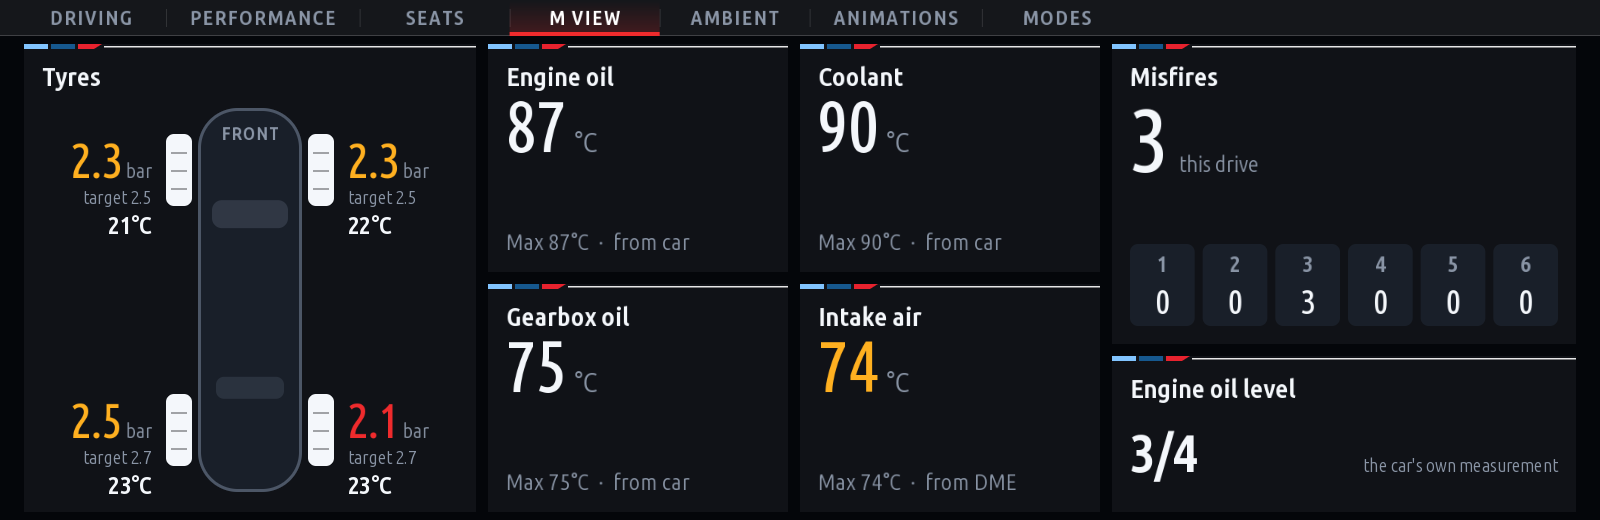
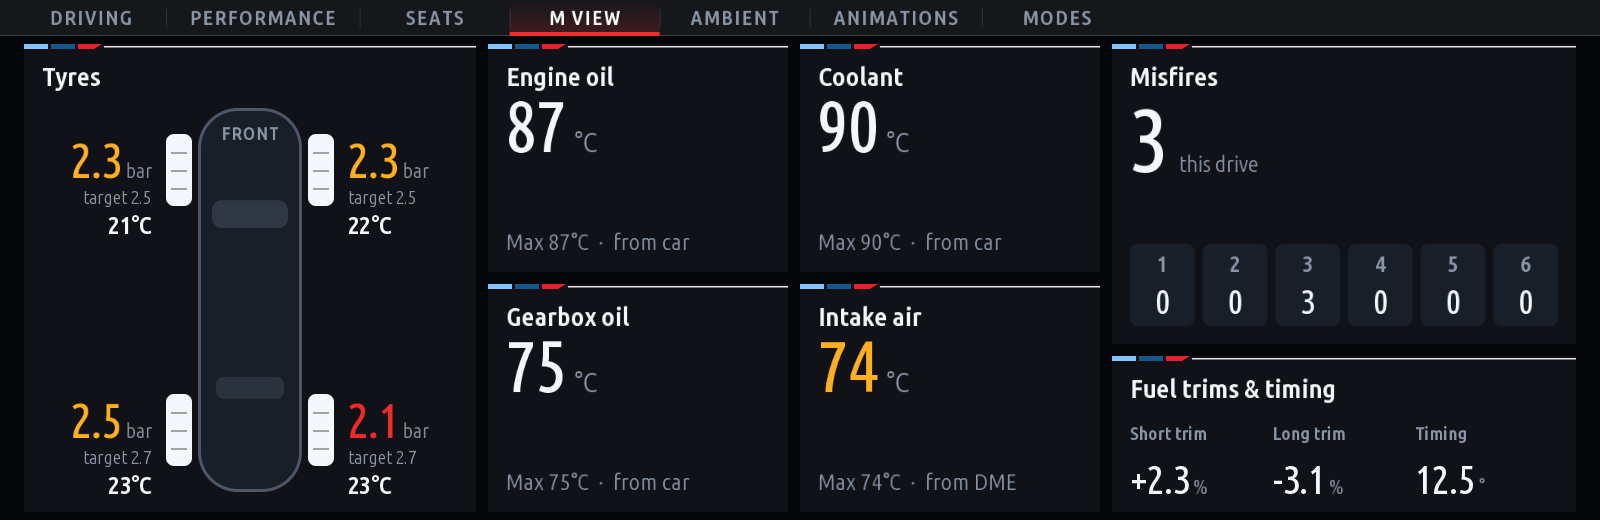
Combo 2.4.2: M View's fuel trims and timing in place of the oil level
The B58 measures its oil level its own way, so the Vehicle2 dipstick signal is gone. In its place:
short and long term fuel trim (bank 1) and ignition advance from the engine unit, OBD 01 PIDs
06 / 07 / 0E (UDS 22 F4xx as the fallback), read every 5 s while the tab shows. A trim 10 % from 0
is yellow, 20 % red.

diff --git a/apps/combo/mview.js b/apps/combo/mview.js
@@ -5,7 +5,7 @@
  *   Engine oil, coolant    the car's own signals (signals.js); while it sends none, the engine unit (OBD 5C / 05)
  *   Gearbox oil            the car's BasicDataSet, else the gearbox unit (EGS 0x18, 22 6000 as on a ZF 8HP)
  *   Intake air             the engine unit (OBD 0F)
- *   Oil level              the car's own measurement (Vehicle2.statusOilDipstick2)
+ *   Fuel trims, timing     the engine unit (OBD 06 / 07 short and long term trim bank 1, 0E ignition advance)
  *   Misfires               per cylinder this driving cycle, from the engine unit's on-board monitors (OBD service 06,
  *                          mid A2 = cylinder 1 ...; 22 F6xx when it refuses service 06); Reset counts from now on,
  *                          nothing is cleared in the car
@@ -23,12 +23,11 @@ const { withAlpha } = require('./kit/canvas');
 
 const TEMP_MS = 5000, MISFIRE_MS = 10000, CAR_FRESH = 10000, KEEP = 30000, HIST_MS = 2000, HIST_N = 150;
 const YIELD_MS = 600, YIELD_STEP = 50, CALL_MS = 1500;
-const LEVELS = { MOTOROELSTAND_UNTER_MINIMUM: 'Below min', MOTOROELSTAND_AM_MINIMUM: 'At min', MOTOROELSTAND_1_4: '1/4',
-    MOTOROELSTAND_2_4: '2/4', MOTOROELSTAND_3_4: '3/4', MOTOROELSTAND_4_4: '4/4', MOTOROELSTAND_5_4: 'Overfilled',
-    MOTOROELSTAND_UEBERFUELLT: 'Overfilled', MOTOROELSTAND_OK: 'OK', SERVICEFUNKTION_AKTIV: 'Measuring' };
-const LEVEL_NO = { 0: 'MOTOROELSTAND_UNTER_MINIMUM', 1: 'MOTOROELSTAND_AM_MINIMUM', 2: 'MOTOROELSTAND_1_4', 3: 'MOTOROELSTAND_2_4',
-    4: 'MOTOROELSTAND_3_4', 5: 'MOTOROELSTAND_4_4', 6: 'MOTOROELSTAND_5_4', 7: 'MOTOROELSTAND_UEBERFUELLT', 13: 'MOTOROELSTAND_OK', 14: 'SERVICEFUNKTION_AKTIV' };
 const TEMPS = ['oil', 'coolant', 'gearbox', 'iat'];
+// the Fuel trims & timing card (engine unit, OBD 01 06 / 07 / 0E): trims in %, the advance in degrees
+const FUEL = ['stft', 'ltft', 'timing'];
+// a trim the engine unit has to hold this far from 0 % means air or fuel is off (a leak, an injector, a sensor)
+const TRIM_WARN = 10, TRIM_CRIT = 20;
 const GO = '#2fd27a';
 // a healthy engine counts a few each drive (the engine unit flags misfires at ~1-2 % of revolutions): the total in
 // yellow from MIS_WARN, red from MIS_CRIT, a cylinder from MIS_CYL_WARN (M Vitals' thresholds)
@@ -36,19 +35,13 @@ const MIS_WARN = 100, MIS_CRIT = 500, MIS_CYL_WARN = 50;
 const isNum = (x) => typeof x === 'number' && isFinite(x);
 const hexOf = (x) => parseInt(String(x), 16);
 
-/** The car's oil level enum (by name or number) as shown, or null. */
-function oilLevel(x) {
-    const name = typeof x === 'number' ? LEVEL_NO[x] : x;
-    return LEVELS[name] || null;
-}
-
 class MView {
     constructor(o) {
         Object.assign(this, { reader: o.reader, values: o.values, settings: o.settings, log: o.log, link: o.link || null });
         this.now = o.now || Date.now;
         this.yieldTo = o.yieldTo || null;
         const cfg = o.cfg || {}, quick = (l) => (l || []).map((c) => Object.assign({ timeoutMs: CALL_MS }, c));
-        this.c = { oil: quick(cfg.oil), coolant: quick(cfg.coolant), iat: quick(cfg.iat), gearbox: quick(cfg.egs) };
+        this.c = { oil: quick(cfg.oil), coolant: quick(cfg.coolant), iat: quick(cfg.iat), gearbox: quick(cfg.egs), stft: quick(cfg.stft), ltft: quick(cfg.ltft), timing: quick(cfg.timing) };
         const m = cfg.misfire || {};
         this.mis = { ecu: m.ecu == null ? 0x12 : m.ecu, tid: hexOf(m.tid || '0C'), avgTid: hexOf(m.avgTid || '0B'), cylinders: m.cylinders || 6 };
         // the monitor ids to ask (cylinder 1 = A2), the form the unit answers (service 06, or 22 F6xx: did), none left
@@ -66,6 +59,8 @@ class MView {
         if (isNum(this.read[k]) && now - (this.readT[k] || 0) < KEEP) return { v: this.read[k], from: k === 'gearbox' ? 'EGS' : 'DME' };
         return null;
     }
+    /** A fuel trim or the timing while fresh, else null. */
+    fuel(k) { return isNum(this.read[k]) && this.now() - (this.readT[k] || 0) < KEEP ? this.read[k] : null; }
     carFresh(k) { const L = this.values.live; return isNum(L[k]) && this.now() - (L[k + 'T'] || 0) < CAR_FRESH; }
     /** The counts shown: since Reset (until the engine unit starts a new driving cycle: a count under its base). */
     shown() {
@@ -87,12 +82,13 @@ class MView {
         this.busy = true;
         this.run(due).catch((e) => this.log.warn('mview ' + due + ': ' + e)).then(() => { this.busy = false; });
     }
-    /** The next value to read: a temperature the car doesn't send, or the next cylinder's misfires. */
+    /** The next value to read: a temperature the car doesn't send, a fuel trim / the timing, or the next cylinder's misfires. */
     due(now) {
         for (const k of TEMPS) {
             if (this.carFresh(k) || !this.live(this.c[k]).length) continue;
             if (now - (this.last[k] || 0) >= TEMP_MS) return k;
         }
+        for (const k of FUEL) if (this.live(this.c[k]).length && now - (this.last[k] || 0) >= TEMP_MS) return k;
         if (this.misGone === null && now - (this.last.misfire || 0) >= MISFIRE_MS / Math.max(1, this.mis.cylinders)) return 'misfire';
         return null;
     }
@@ -166,7 +162,7 @@ class MView {
     /* ---------- the tab ---------- */
     /*
      * Left to right: the tyres (M Vitals' Chassis card, narrower), the four temperatures in two columns, then the
-     * misfires (M Vitals' Fuel & ignition card: the total, a cell per cylinder) over the oil level.
+     * misfires (M Vitals' Fuel & ignition card: the total, a cell per cylinder) over the fuel trims and the ignition timing.
      */
     draw(cv, t, o) {
         const demo = !!(o && o.demo), U = require('./draw').units(this.settings || { get: () => null });
@@ -188,7 +184,7 @@ class MView {
         // (intake air: 74 deg C parked in traffic is heat soak, not a fault - warn from 65, red from 80)
         tile('iat', 'Intake air', 800, 284, hot(65, 80));
         this.drawMisfires(cv, t, 1112, 44, 464, 300, D);
-        this.drawOilLevel(cv, t, 1112, 356, 464, 156, D);
+        this.drawFuel(cv, t, 1112, 356, 464, 156, D);
     }
     /** The car's tyres while fresh (signals.js L.tyres), else null. */
     tyres() { const L = this.values.live; return L.tyresT && this.now() - L.tyresT < 5 * 60000 ? L.tyres : null; }
@@ -247,13 +243,19 @@ class MView {
             cv.text(isNum(c) ? String(c) : '-', cx + cw / 2, cy + ch - 12, 34, !isNum(c) ? t.dim : hit ? t.warn : t.text, { align: 'center', font: 'num' });
         }
     }
-    drawOilLevel(cv, t, x, y, w, h, D) {
-        G.panel(cv, t, x, y, w, h, 'Engine oil level');
-        const L = this.values.live;
-        const lvl = D ? '4/4' : (L.oilLevelT && this.now() - L.oilLevelT < 10 * 60000 ? oilLevel(L.oilLevel) : null);
-        const bad = lvl === 'Below min' || lvl === 'At min' || lvl === 'Overfilled';
-        cv.text(lvl || '--', x + 18, y + 116, 52, bad ? t.warn : lvl ? t.text : t.dim, { font: 'bold' });
-        cv.text(lvl ? "the car's own measurement" : 'not sent by the car yet', x + w - 18, y + 116, 18, t.dim, { align: 'right' });
+    /** Short and long term fuel trim (%), ignition advance (degrees), side by side. */
+    drawFuel(cv, t, x, y, w, h, D) {
+        G.panel(cv, t, x, y, w, h, 'Fuel trims & timing');
+        const cw = (w - 36) / 3;
+        [['stft', 'Short trim', '%'], ['ltft', 'Long trim', '%'], ['timing', 'Timing', '°']].forEach((c, i) => {
+            const k = c[0], v = D ? D[k] : this.fuel(k), cx = x + 18 + i * cw, trim = k !== 'timing';
+            const a = isNum(v) ? Math.abs(v) : 0, col = !isNum(v) ? t.dim : trim && a >= TRIM_CRIT ? t.crit : trim && a >= TRIM_WARN ? t.warn : t.text;
+            cv.text(c[1], cx, y + 84, 18, t.dim, { font: 'bold' });
+            const txt = !isNum(v) ? '--' : (trim && v > 0 ? '+' : '') + G.fmt(v, 1);
+            cv.text(txt, cx, y + 138, 40, col, { font: 'num' });
+            if (isNum(v)) cv.text(c[2], cx + cv.textWidth(txt, 40, { font: 'num' }) + 4, y + 138, 20, t.dim);
+        });
+        if (!D && !FUEL.some((k) => isNum(this.fuel(k)))) cv.text(FUEL.every((k) => !this.live(this.c[k]).length) ? 'Not given by this car' : this.why('stft'), x + w - 18, y + 40, 16, t.dim, { align: 'right' });
     }
 }
 
@@ -270,8 +272,8 @@ function refused(raw) {
 /** The demo's values (Combo's demo setting): a warm engine, no misfires. */
 function demoValues(now) {
     const s = Math.sin(now / 9000);
-    return { oil: 102 + 4 * s, coolant: 92 + 2 * s, gearbox: 81 + 3 * s, iat: 34 + 3 * s, mis: [0, 0, 0, 0, 0, 0],
+    return { oil: 102 + 4 * s, coolant: 92 + 2 * s, gearbox: 81 + 3 * s, iat: 34 + 3 * s, stft: 1.6 * s, ltft: -2.3, timing: 14 + 4 * s, mis: [0, 0, 0, 0, 0, 0],
         tyres: { FL: { p: 2.3, t: 31, pt: 2.5 }, FR: { p: 2.3, t: 31, pt: 2.5 }, RL: { p: 2.5, t: 34, pt: 2.7 }, RR: { p: 2.6, t: 34, pt: 2.7 } } };
 }
 
-module.exports = { MView, oilLevel, refused };
+module.exports = { MView, refused };

diff --git a/kit/tools/test_combo.js b/kit/tools/test_combo.js
@@ -736,7 +736,7 @@ checks.push(
         const t2 = await b.tab(2);
         assert(t2.some((x) => /^Reading only for now/.test(x)) && !t2.includes('Engine speed'), 'Seats: ' + t2.join(' | '));
         const tm = await b.tab(3);
-        assert(tm.includes('Engine oil') && tm.includes('Gearbox oil') && tm.includes('Misfires') && tm.includes('Tyres') && tm.includes('Engine oil level') && !tm.some((x) => /NaN|undefined/.test(x)), 'M View: ' + tm.join(' | '));
+        assert(tm.includes('Engine oil') && tm.includes('Gearbox oil') && tm.includes('Misfires') && tm.includes('Tyres') && tm.includes('Fuel trims & timing') && !tm.includes('Engine oil level') && !tm.some((x) => /NaN|undefined/.test(x)), 'M View: ' + tm.join(' | '));
         const t3 = await b.tab(5);
         assert(t3.includes('AMBIENT TAB 1') && fakeAmb.calls.indexOf('select 1') >= 0, 'Animations: ' + t3.join(' | '));
         b.tap(300, 300);
@@ -820,16 +820,14 @@ checks.push(
             });
         });
     }],
-    ['2.4 #1 M View: oil and coolant from the car\'s own signals, the oil level from its measurement', async () => {
+    ['2.4 #1 M View: oil and coolant from the car\'s own signals, no oil level', async () => {
         const { v, w } = signalRig();
         w.CDS.statusEngineTemperature({ temperatureEngineDrive: 48 + 91, temperatureEngineOilDrive: 48 + 104 });
         assert.strictEqual(v.live.coolant, 91); assert.strictEqual(v.live.oil, 104); assert(v.live.oilT > 0);
         w.VehicleInformation.DataPowerTrain2({ temperatureEngineDrive: 48 + 93, temperatureEngineOilDrive: 255 });
         assert.strictEqual(v.live.coolant, 93, 'DataPowerTrain2 carries them too'); assert.strictEqual(v.live.oil, 104, '255 = no value');
-        w.Vehicle2.statusOilDipstick2({ fluidLevelEngineOilRelative: 'MOTOROELSTAND_3_4' });
-        const { oilLevel } = appModule('mview');
-        assert.strictEqual(oilLevel(v.live.oilLevel), '3/4'); assert.strictEqual(oilLevel(4), '3/4'); assert.strictEqual(oilLevel('SIGNAL_UNGUELTIG'), null);
-        assert(SPEC.signals['de.bmw.infotainment.vehicle.CDS'].statusEngineTemperature && SPEC.signals['de.bmw.infotainment.vehicle.Vehicle2'].statusOilDipstick2);
+        assert(SPEC.signals['de.bmw.infotainment.vehicle.CDS'].statusEngineTemperature);
+        assert(!SPEC.signals['de.bmw.infotainment.vehicle.Vehicle2'].statusOilDipstick2, 'no oil level (2.4.2: a B58 measures it its own way)');
     }],
     ['2.4 #2 M View reads: the car\'s values not asked, the gearbox from the EGS, refusals not asked again, misfires per cylinder', async () => {
         const { MView } = appModule('mview'), { DidReader } = require(path.join(KIT, 'dids'));
@@ -967,5 +965,23 @@ checks.push(
         assert.strictEqual(s.state.available, false); assert(/not available/.test(s.summary()));
         ok = true; s.again(); s.poll(); while (s.busy) await new Promise((r) => setImmediate(r));
         assert.strictEqual(s.state.available, true); assert(/1 motors/.test(s.summary()));
+    }],
+    ['2.4.2 M View: fuel trims and timing from the engine unit (OBD 01 06 / 07 / 0E), a trim far from 0 % in the warning colour', async () => {
+        const { MView } = appModule('mview'), { DidReader } = require(path.join(KIT, 'dids'));
+        const asked = [];
+        const fake = { available: true, async physical(ecu, sid, data) {
+            asked.push(sid + ':' + data[0]);
+            if (sid !== 1) return [0x7F, sid, 0x11];
+            const by = { 6: 130, 7: 141, 0x0E: 156, 0x5C: 140, 0x05: 130, 0x0F: 70 }[data[0]];
+            return by == null ? [0x7F, 1, 0x12] : [0x41, data[0], by];
+        } };
+        let clock = 1e6;
+        const m = new MView({ reader: new DidReader(fake), values: { live: {}, now: () => clock }, cfg: SPEC.config.mview, settings: settingsOf(), log: quiet, link: fake, now: () => clock });
+        for (let i = 0; i < 60; i++) { m.tick(); while (m.busy) await new Promise((r) => setImmediate(r)); clock += 400; }
+        assert(Math.abs(m.fuel('stft') - 1.5625) < 1e-6, 'short trim (130 - 128) / 1.28: ' + m.fuel('stft'));
+        assert(Math.abs(m.fuel('ltft') - 10.15625) < 1e-6, 'long trim');
+        assert.strictEqual(m.fuel('timing'), 14, '156 / 2 - 64');
+        const tx = await textsOf(() => { const cv = new Canvas(1600, 520); cv.own = true; m.draw(cv, themes.theme('m_tricolour')); });
+        assert(tx.includes('Fuel trims & timing') && tx.includes('+1.6') && tx.includes('+10.2') && tx.includes('14.0') && !tx.some((x) => /NaN|undefined|oil level/i.test(x)), tx.join(' | '));
     }],
 );

diff --git a/apps/combo/main.js b/apps/combo/main.js
@@ -8,7 +8,7 @@
  *   Performance  Virtual Dyno on the left half, Drag Timer on the right (perf.js)
  *   Seats        the driver seat's position from the car (seats.js; reading only for now: memory 1-3 and easy entry
  *                next, once a car's log shows the position reply)
- *   M View       engine oil, coolant, gearbox oil and intake air temperatures, the oil level, misfires per cylinder
+ *   M View       engine oil, coolant, gearbox oil and intake air temperatures, fuel trims and timing, misfires per cylinder
  *                (mview.js; read only while the tab shows)
  *   Ambient, Animations, Modes
  *                Ambient config's tabs (its Colour, Animations and Driving modes; not Favourites, not the Strobe), the
@@ -106,7 +106,7 @@ mgu.run({
         const perf = new Perf({ settings, log, dataDir: ctx.dataDir, engine });
         // the Seats tab: the driver seat's position from the car, read only while the tab shows (seats.js)
         const seats = new Seats({ signals: ctx.signals, log });
-        // the M View tab: temperatures, oil level, misfires; its reads only while the tab shows (mview.js)
+        // the M View tab: temperatures, fuel trims and timing, misfires; its reads only while the tab shows (mview.js)
         const mview = new MView({ reader: new DidReader(link), values, cfg: cfg.mview, settings, log, link,
             yieldTo: () => !!(ambLights && ambLights._running && !ambLights.held) });
         const perfDemo = new PerfDemo();

diff --git a/apps/combo/signals.js b/apps/combo/signals.js
@@ -122,8 +122,6 @@ function watches(values, engine, sc, log) {
         } }],
         ['de.bmw.infotainment.vehicle.Vehicle2', Object.assign({
             statusCarSpeed2: (v) => put('speed', sc('speed', v.speedVehicleCentreOfGravity)),
-            // the engine oil level as the car's own measurement gives it (an enum: 1/4 .. 4/4 above the minimum)
-            statusOilDipstick2: (v) => { logRaw('oil level', v && v.fluidLevelEngineOilRelative); L.oilLevel = v && v.fluidLevelEngineOilRelative; L.oilLevelT = values.now(); },
         }, engine.handlers())],
         ['de.bmw.infotainment.drivingexcitement.FES', {
             statusSwitchDriveDynamicSport2: (v) => { logRaw('FES boost', v.displayBoostPressure); put('boostFes', sc('boost', v.displayBoostPressure)); },

diff --git a/README.md b/README.md
@@ -198,7 +198,7 @@ the unit and kept across reboots.
 
 | App | What it does |
 |---|---|
-| **Combo** | The apps used most as tabs of one app, so the head unit runs one app in place of several (one process, one diagnostic link). **Seats** (2.3.0, reading only for now): the driver seat's position from the car through BMW's own seat interface (`SeatTargetAdjustment`); memory 1-3 and easy entry follow once a car's log confirms the position reply. **Performance**: Virtual Dyno on the left half (a pull in one gear, power and torque over rpm, a baseline to compare with) and Drag Timer on the right (READY, launch, the splits with their best times). **M View** (2.4.0; 2.4.1: the tyres on the left as M Vitals' Chassis card, the temperatures narrower, the misfires as M Vitals' card with a cell per cylinder, [screen](docs/screens/combo_mview.png)): engine oil, coolant, gearbox oil and intake air temperatures with their maximum this drive and a trace, the engine oil level from the car's own measurement, and misfires per cylinder this driving cycle (OBD service 06 monitors from the engine unit; *Reset misfires* counts from then on, nothing is cleared in the car). Oil and coolant come from the car's own signals; the gearbox oil from the gearbox unit (`22 6000` at address 0x18, as on a ZF 8HP) while the car sends none; read only while the tab shows. Since 2.4.2 the misfires actually reach the engine unit (the kit's read-only link now lets OBD service 06 out; before, every request was stopped on the head unit), the tyre temperatures are read as °C on a car in bar or kPa (a G26 that named °F in its units showed −13 °C for 8 °C), and *Read again* on Seats starts over even after the car said no. **Ambient**, **Animations**, **Modes**: Ambient config's tabs, without the Strobe and without Favourites (M View took its place); since 2.4.0 the turn signal's door blink keeps its own even pace (each half at least 0.45 s and never skipped: one side's door-line writes take ~0.4 s through the gateway, which made the old 0.33 s halves uneven), and short gaps in the car's indicator signal (up to 1.5 s) don't stop or restart it, the same code taken from `apps/ambient_config` at build time (app.json `include`); the ambient light runs from the car's start with the app closed, as in Ambient config. With both apps installed, the one started first drives the lights and the other leaves them alone. **Driving**: one screen in M Vitals' look, four columns of the same size: engine speed and boost (with peak, gear and shift point, boost target from the DME), speed with the gear plus power and torque (with peaks), xDrive (mode, rear / front split, torque to the front axle from the transfer case, LMV `22 DB32`, and wheel slip, front axle against rear, from the car's wheel speeds; since 2.4.0 each tyre's pressure / temperature top right, `2.4/20`, from the car's TPMS in the units chosen, a tyre over 0.2 bar under the car's target in the warning colour), and the batteries: the 48 V battery of a mild hybrid (charge, charging / supplying, voltage, power, health, temperature; BATT48 `22 AA56`, eDrive's layout, logged as `raw AA56` until it is confirmed on a car) over the 12 V battery (charge from the DME's energy management, voltage, power into the battery in W from voltage and current, health, temperature; since 2.3.0 a request a unit refuses as not supported is not asked again (a G26 M440i's engine unit answers the OBD voltage and refuses its current, so the panel shows the voltage alone), and Combo's reads wait up to 0.6 s for the ambient light's writes; since 2.1.0 the voltage and current stay shown a minute, are asked again after 30 s rather than 5 min when they fail, and each candidate unit's reply is logged once, as `v12 0x12 F442: reply …`). Reading only (the kit's read-only link: UDS `22` / OBD `01` / `06`), and only while the Driving tab is shown and the car is in use, so it never slows the app on screen or keeps a parked car awake; nothing at all once the car is locked and left (its own vehicle state). On a car without a 48 V battery the 12 V battery gets the whole column (*48 V battery*: Auto / Show / Hide). Scales, redline, sources and units (pressure in bar, psi or kPa) are settings as in M Vitals, plus *Torque gauge max*; limits are offered in the unit chosen. Reset peaks in the bar (press twice; on Performance it resets the run, on the ambient tabs it gives the car's own colour back). Design: [docs/superpowers/specs/2026-11-08-combo-screen-design.md](docs/superpowers/specs/2026-11-08-combo-screen-design.md). |
+| **Combo** | The apps used most as tabs of one app, so the head unit runs one app in place of several (one process, one diagnostic link). **Seats** (2.3.0, reading only for now): the driver seat's position from the car through BMW's own seat interface (`SeatTargetAdjustment`); memory 1-3 and easy entry follow once a car's log confirms the position reply. **Performance**: Virtual Dyno on the left half (a pull in one gear, power and torque over rpm, a baseline to compare with) and Drag Timer on the right (READY, launch, the splits with their best times). **M View** (2.4.0; 2.4.1: the tyres on the left as M Vitals' Chassis card, the temperatures narrower, the misfires as M Vitals' card with a cell per cylinder, [screen](docs/screens/combo_mview.png)): engine oil, coolant, gearbox oil and intake air temperatures with their maximum this drive and a trace, the fuel trims (short and long term, bank 1) and ignition advance from the engine unit (OBD `01` PIDs 06 / 07 / 0E; since 2.4.2 in place of the oil level, which a B58 measures its own way), and misfires per cylinder this driving cycle (OBD service 06 monitors from the engine unit; *Reset misfires* counts from then on, nothing is cleared in the car). Oil and coolant come from the car's own signals; the gearbox oil from the gearbox unit (`22 6000` at address 0x18, as on a ZF 8HP) while the car sends none; read only while the tab shows. Since 2.4.2 the misfires actually reach the engine unit (the kit's read-only link now lets OBD service 06 out; before, every request was stopped on the head unit), the tyre temperatures are read as °C on a car in bar or kPa (a G26 that named °F in its units showed −13 °C for 8 °C), and *Read again* on Seats starts over even after the car said no. **Ambient**, **Animations**, **Modes**: Ambient config's tabs, without the Strobe and without Favourites (M View took its place); since 2.4.0 the turn signal's door blink keeps its own even pace (each half at least 0.45 s and never skipped: one side's door-line writes take ~0.4 s through the gateway, which made the old 0.33 s halves uneven), and short gaps in the car's indicator signal (up to 1.5 s) don't stop or restart it, the same code taken from `apps/ambient_config` at build time (app.json `include`); the ambient light runs from the car's start with the app closed, as in Ambient config. With both apps installed, the one started first drives the lights and the other leaves them alone. **Driving**: one screen in M Vitals' look, four columns of the same size: engine speed and boost (with peak, gear and shift point, boost target from the DME), speed with the gear plus power and torque (with peaks), xDrive (mode, rear / front split, torque to the front axle from the transfer case, LMV `22 DB32`, and wheel slip, front axle against rear, from the car's wheel speeds; since 2.4.0 each tyre's pressure / temperature top right, `2.4/20`, from the car's TPMS in the units chosen, a tyre over 0.2 bar under the car's target in the warning colour), and the batteries: the 48 V battery of a mild hybrid (charge, charging / supplying, voltage, power, health, temperature; BATT48 `22 AA56`, eDrive's layout, logged as `raw AA56` until it is confirmed on a car) over the 12 V battery (charge from the DME's energy management, voltage, power into the battery in W from voltage and current, health, temperature; since 2.3.0 a request a unit refuses as not supported is not asked again (a G26 M440i's engine unit answers the OBD voltage and refuses its current, so the panel shows the voltage alone), and Combo's reads wait up to 0.6 s for the ambient light's writes; since 2.1.0 the voltage and current stay shown a minute, are asked again after 30 s rather than 5 min when they fail, and each candidate unit's reply is logged once, as `v12 0x12 F442: reply …`). Reading only (the kit's read-only link: UDS `22` / OBD `01` / `06`), and only while the Driving tab is shown and the car is in use, so it never slows the app on screen or keeps a parked car awake; nothing at all once the car is locked and left (its own vehicle state). On a car without a 48 V battery the 12 V battery gets the whole column (*48 V battery*: Auto / Show / Hide). Scales, redline, sources and units (pressure in bar, psi or kPa) are settings as in M Vitals, plus *Torque gauge max*; limits are offered in the unit chosen. Reset peaks in the bar (press twice; on Performance it resets the run, on the ambient tabs it gives the car's own colour back). Design: [docs/superpowers/specs/2026-11-08-combo-screen-design.md](docs/superpowers/specs/2026-11-08-combo-screen-design.md). |
 
 **This fork offers Combo only.** Every other app (Redline, Virtual Dyno, Brake Test, Drag Timer, G-Force, Warm-Up, M Vitals, Fault Scanner, eDrive, Live Data, Service, Doom, Engine Config, Ambient config, Transmission Config) comes from the source repo, [cauliflowermossgrape/idrive7-apps](https://github.com/cauliflowermossgrape/idrive7-apps): add it to the MGU Store as a source and install them from there, so none shows twice. The same goes for the two head-unit tools, the GPU renderer and the Controller gate: this repo no longer offers them, install them from the source repo (Combo requires both, by their ids `idrive7-renderd` and `mgu-inputgate`). Combo's ambient tabs are Ambient config's code, kept in `shared/ambient_config` (not an app of this repo, so the Store does not list it) and taken into Combo at build time.
 
